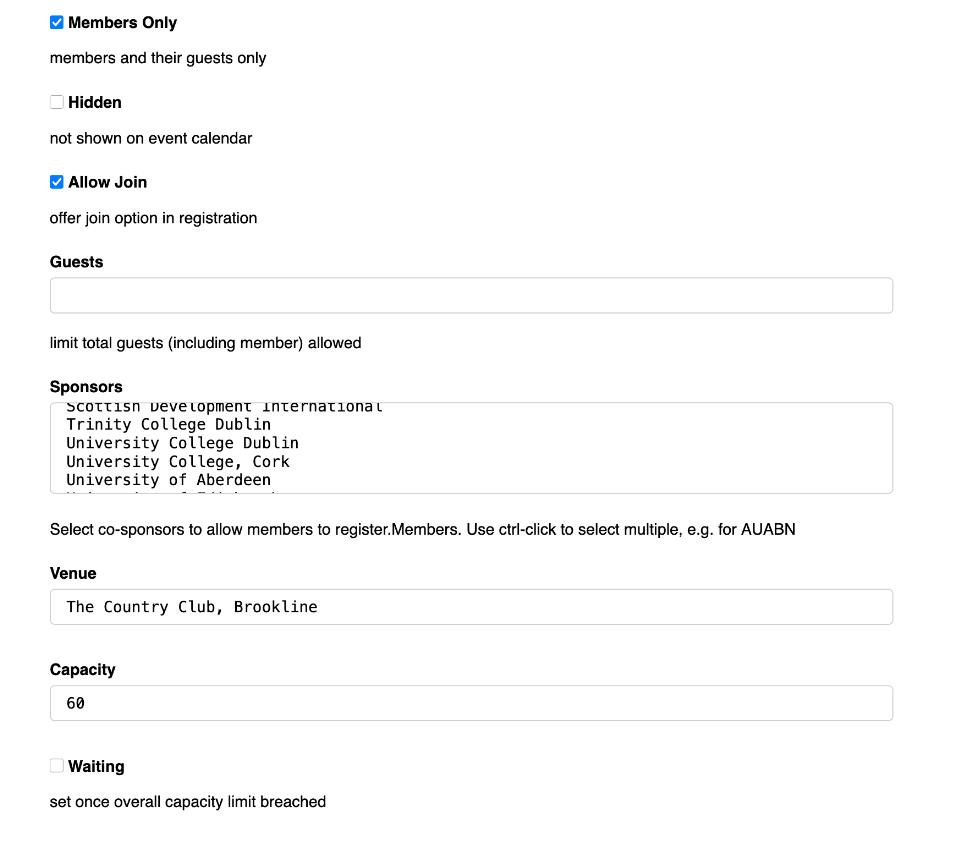
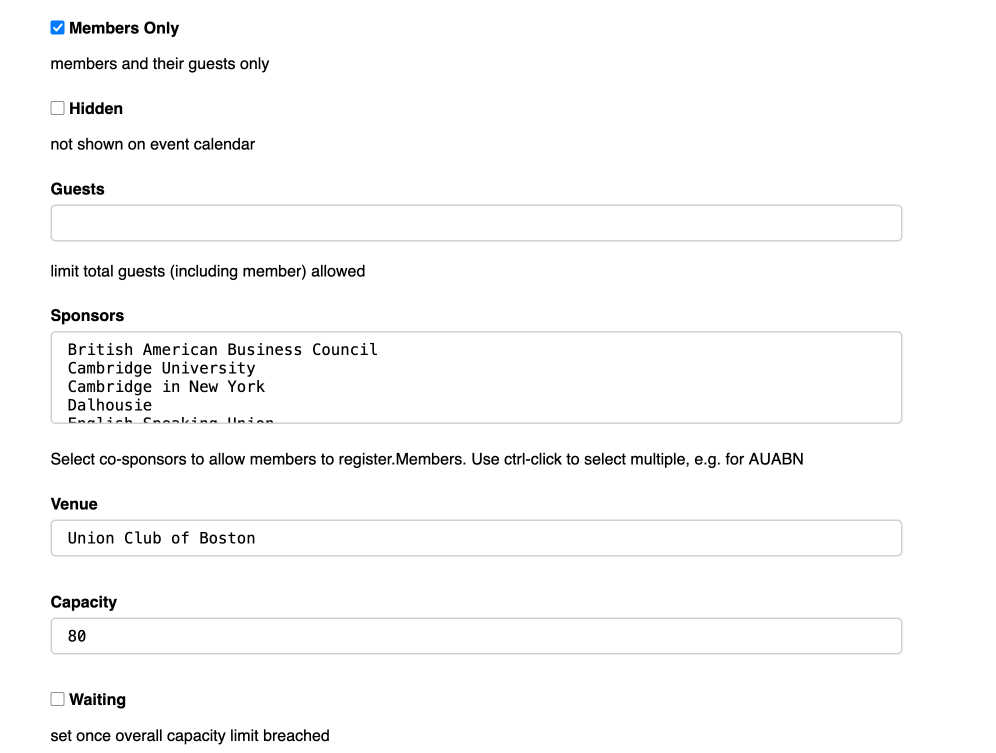
bug in reservation for unaffiliated member; docs

diff --git a/controllers.py b/controllers.py
@@ -1373,8 +1373,8 @@ def reservation():
 	else:
 		membership = session.get('membership')	#if joining with event registration
 	#membership ==> current member in good standing
-	sponsor = not affinity.College.Oxbridge
-	fresher = affinity.Matr and affinity.Matr >= this_year
+	sponsor = affinity and not affinity.College.Oxbridge
+	fresher = affinity and affinity.Matr and affinity.Matr >= this_year
 	new_member = not member.Membership and not fresher
 
 	tickets = db(db.Event_Tickets.Event==session.event_id).select()

diff --git a/__init__.py b/__init__.py
@@ -10,6 +10,6 @@ from .models import db
 from . import pay_processors, daily_maintenance, email_daemon, session, tools, website, controllers
 
 # optional parameters
-__version__ = "v1.2.6"
+__version__ = "v1.2.7"
 __author__ = "dgmanns@gmail.com"
 __license__ = "BSDv3"

diff --git a/docs/event_record.md b/docs/event_record.md
@@ -39,11 +39,11 @@ Below this:
 
 ![event_record_2](images/event_record_2.png)
 
-Ticking the **Members Only** checkbox restricts registration to members in good-standing at the time the event will take place. Full members with auto-renewing subscriptions will be assumed to be in good standing even if the event takes place after their currently paid date. Non-member alums and members whose renewal date precedes the event will need to join or renew at the time of registration.
+Ticking the **Members Only** checkbox restricts registration to members in good-standing at the time the event will take place. Full members with auto-renewing subscriptions will be assumed to be in good standing even if the event takes place after their currently paid date. Non-member alums and members whose renewal date precedes the event will need to join or renew at the time of registration. In some cases, such as Freshers' events and new Member recruitment events there may be ticket types that override the members-only restriction.
 
 Ticking the **Hidden** checkbox excludes the event from being shown in the Home page calendar and My Account page. This might be an event for the organizers only, or for our OxCam10 group. Only members sent the notice or link explicitly will be aware of the event.
 
-Leaving Members Only unchecked allows any alumni to register. In this case, ticking **Allow Join** allows alumni to choose to join or renew as part of the registration process, as a convenience. For certain events, such as the Freshers' event, we do not allow join as registration includes the first year's membership.
+Leaving Members Only unchecked allows any alumnus to register.
 
 If a number is placed in the **Guests** field it limits the total party size a member can register, including themself.
 

diff --git a/docs/tickets.md b/docs/tickets.md
@@ -30,3 +30,7 @@ that any of these tickets that become available are allocated manually through t
 **Short Name** (optional) replaces the ticket name in the exported .csv doorlist file for convenience.
 
 If **Allow as Guest** is unchecked, the ticket cannot be selected for additional guests, for example Freshers attending the Freshers' event must register separately.
+
+If **New Member** is checked and the guest is host, the system will check that the guest has no existing or previous membership history. This event ticket will register the guest as a member and provide the first year of membership free of dues.
+
+If **Fresher** is checked and the guest is host, the system will check that the guest is a fresher (matriculation year is the current year).
